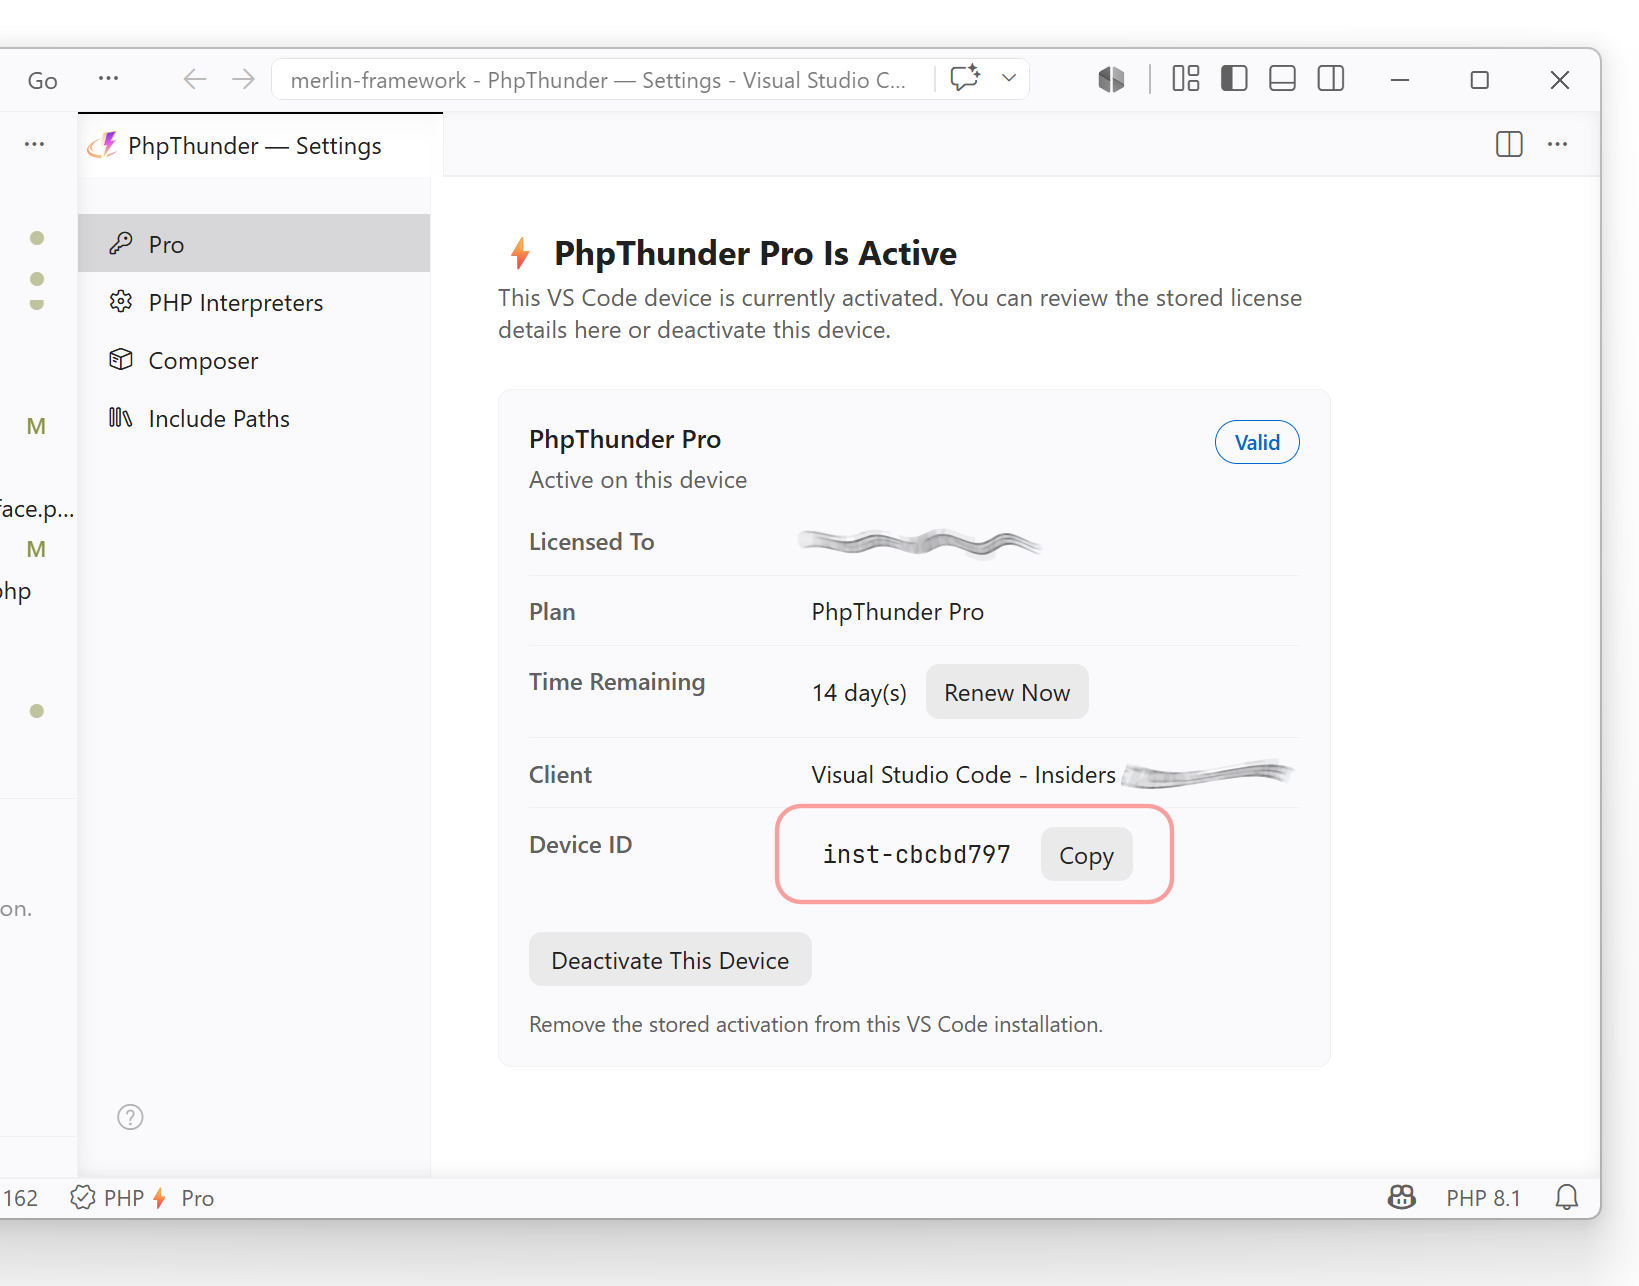
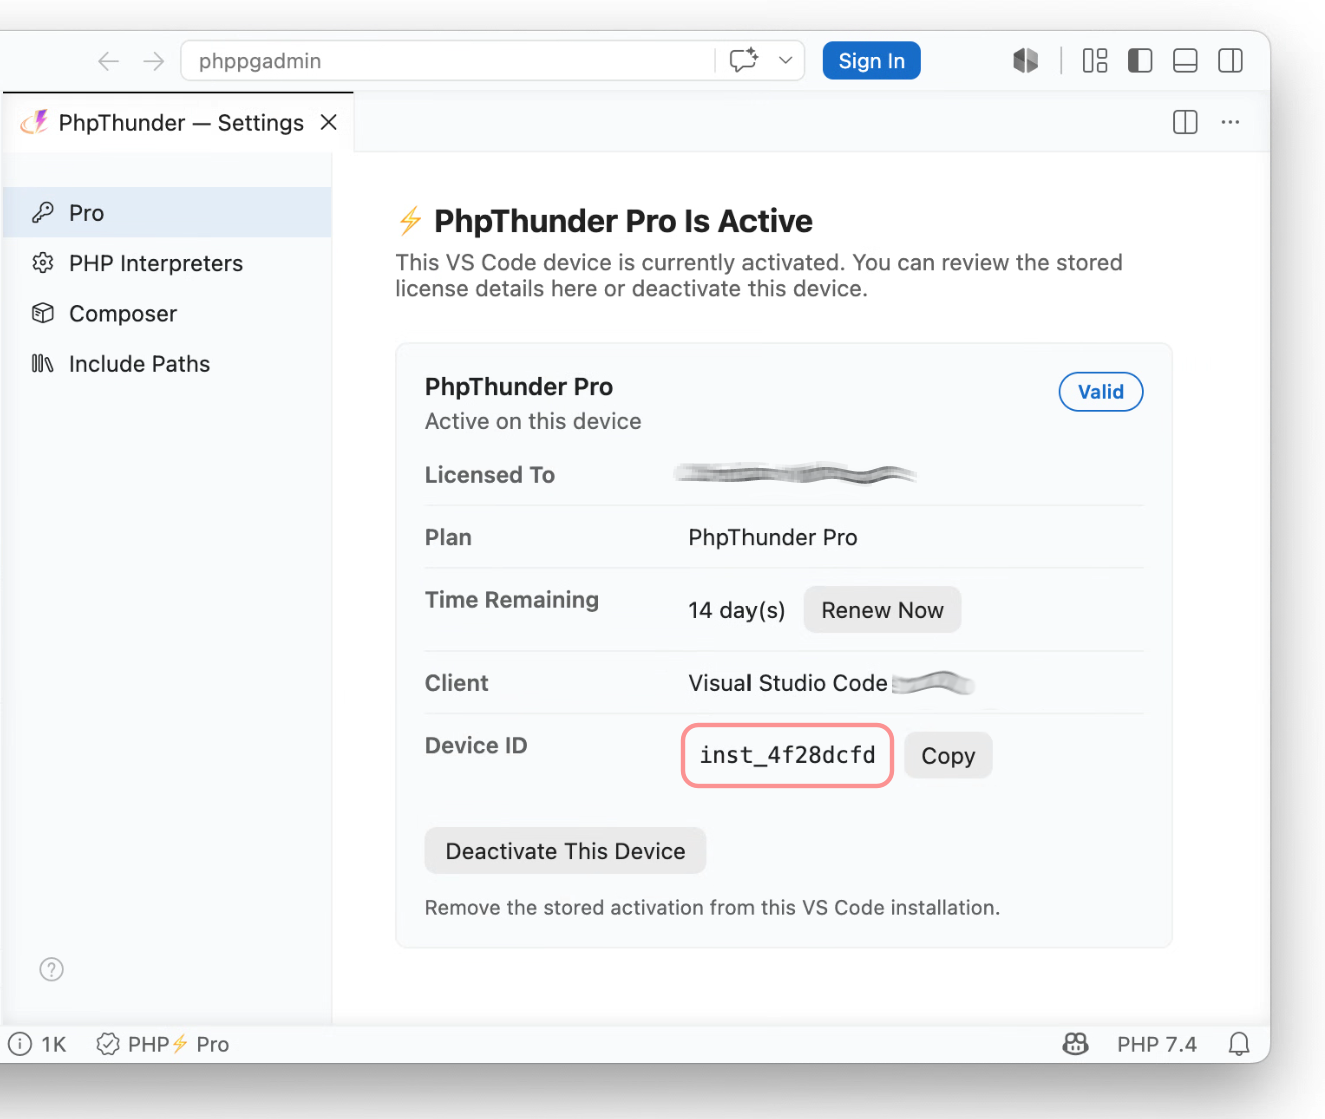
Fix license ID format and update diagnostic codes documentation

diff --git a/docs/02-installation-and-activation.md b/docs/02-installation-and-activation.md
@@ -115,7 +115,7 @@ For pricing and plan details, see the [PhpThunder website](https://sailantis.com
 
 ## Identifying your device
 
-When you open the **License** page, PhpThunder displays a short id of the form `inst-xxxxxxxx` alongside the editor name and version. Use that id when you need to disambiguate installs of PhpThunder on the same machine, for example when multiple VS Code variants are installed side by side.
+When you open the **License** page, PhpThunder displays a short id of the form `inst_xxxxxxxx` alongside the editor name and version. Use that id when you need to disambiguate installs of PhpThunder on the same machine, for example when multiple VS Code variants are installed side by side.
 
 The short id is also visible on the Sailantis dashboard under **Devices**, so support can match a license row to a specific PhpThunder install without asking for the full fingerprint.
 

diff --git a/docs/10-diagnostic-codes.md b/docs/10-diagnostic-codes.md
@@ -103,7 +103,7 @@ PhpThunder reports static analysis findings as **diagnostic names** — short Pa
 | `AbstractPrivate`           | `abstract private` is not valid                           |
 | `SelfStaticOutsideClass`    | `self::` / `static::` used outside a class               |
 | `StaticMethodViaInstance`   | Static method called on an instance                       |
-| `ClassNestedInFunction`     | Class declared inside a function                         |
+| `ClassNestedInClosure`     | Class declared inside a closure                         |
 | `InterfaceNestedInFunction` | Interface declared inside a function                    |
 | `TraitNestedInFunction`     | Trait declared inside a function                         |
 | `EnumNestedInFunction`      | Enum declared inside a function                          |
